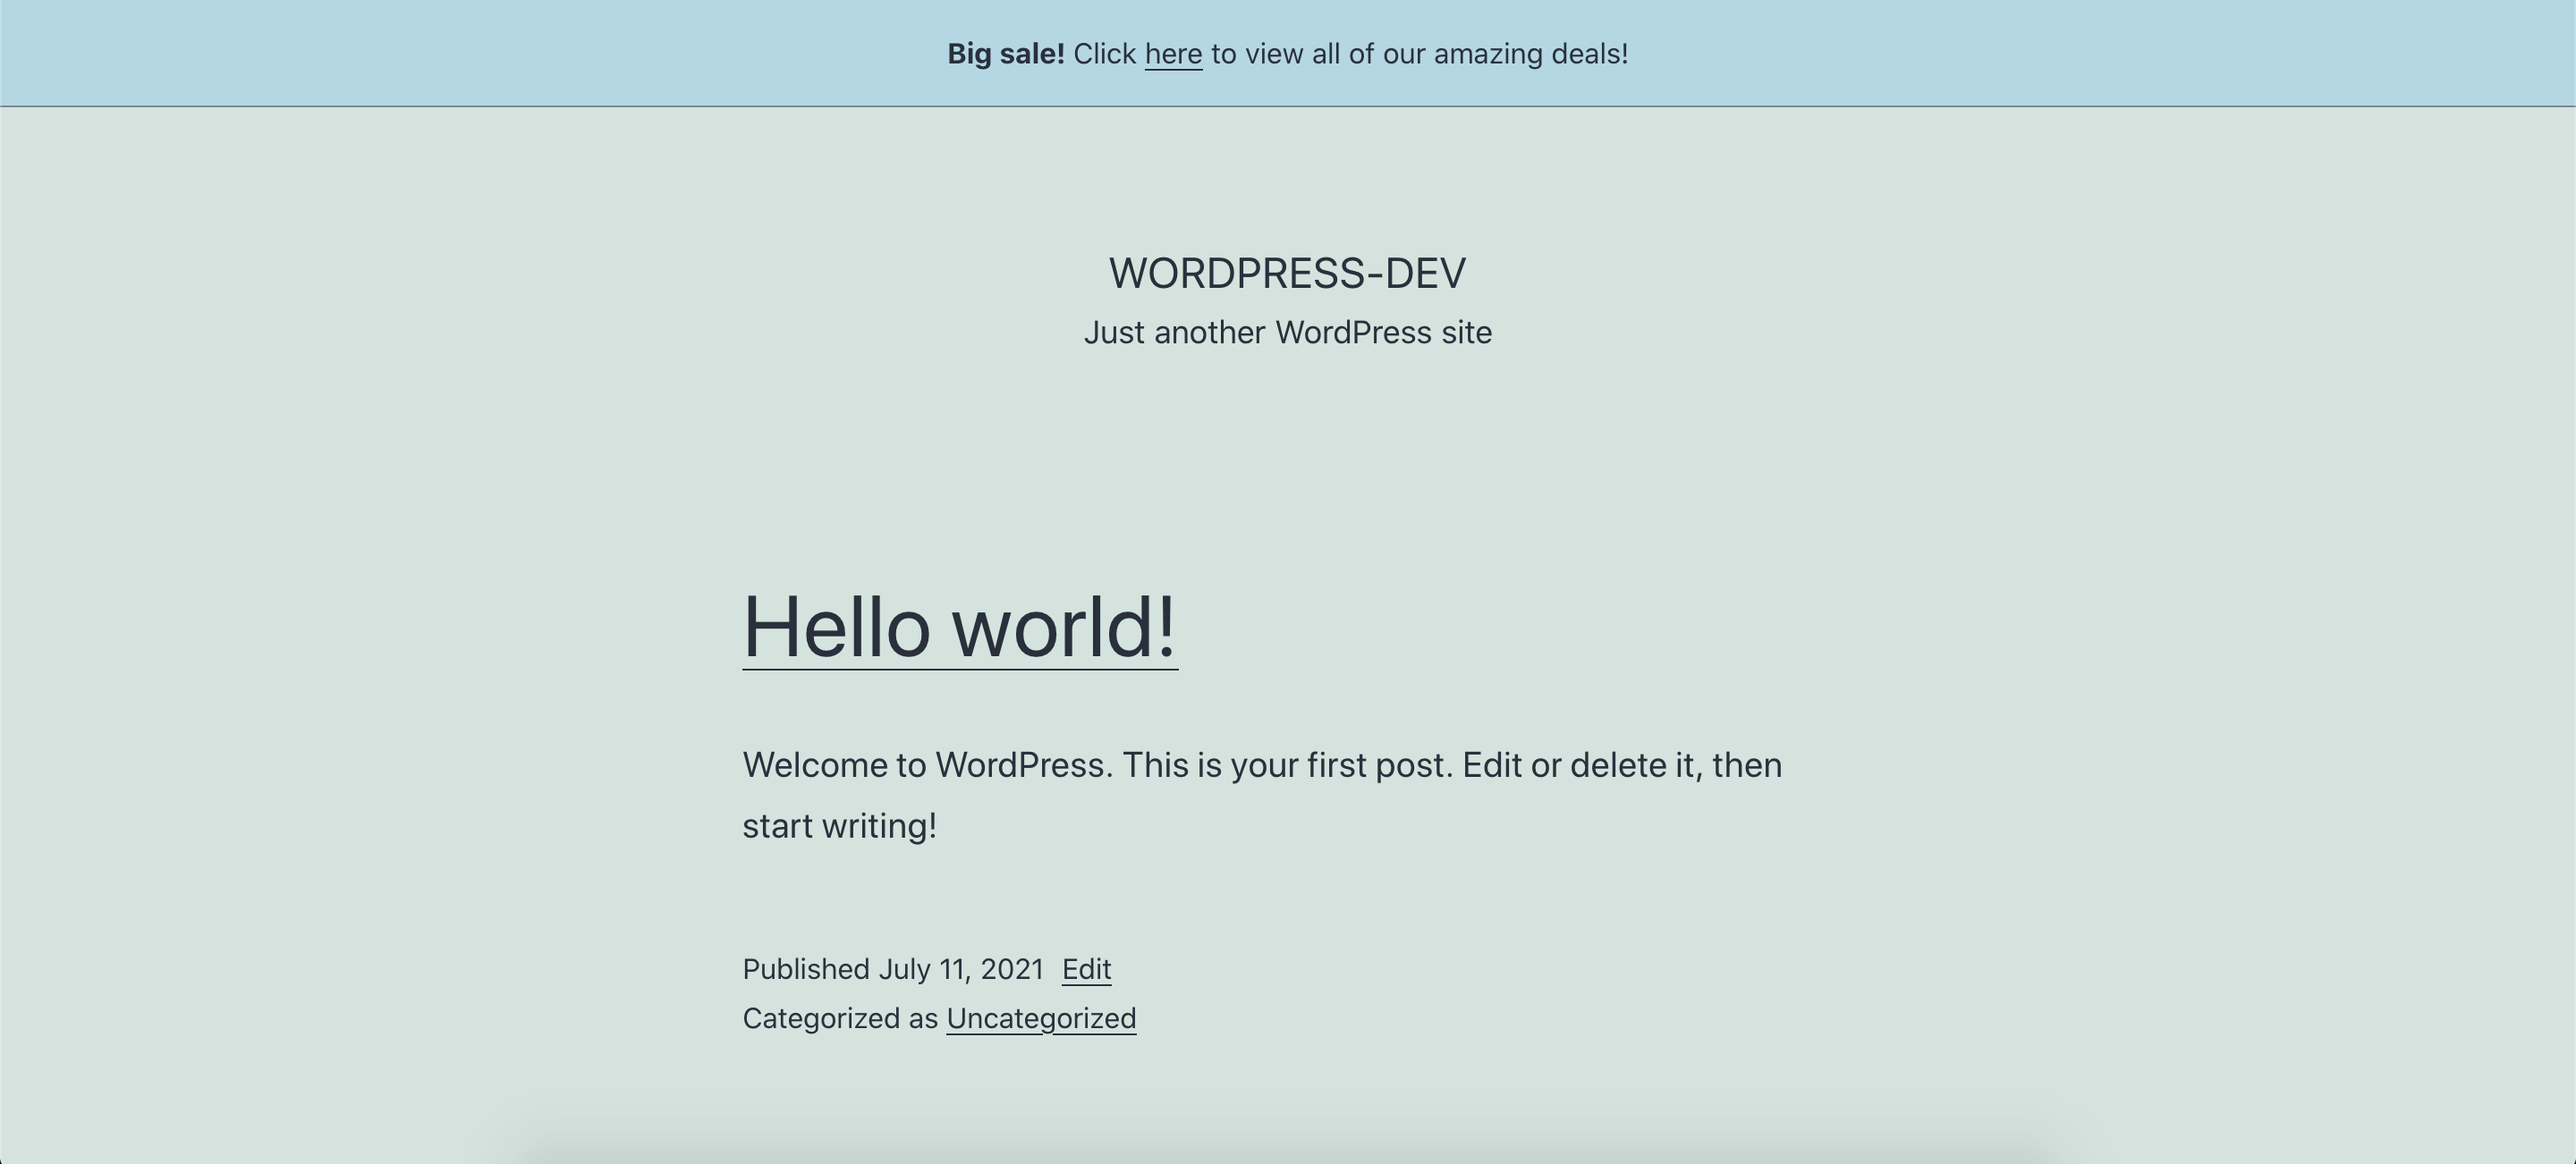
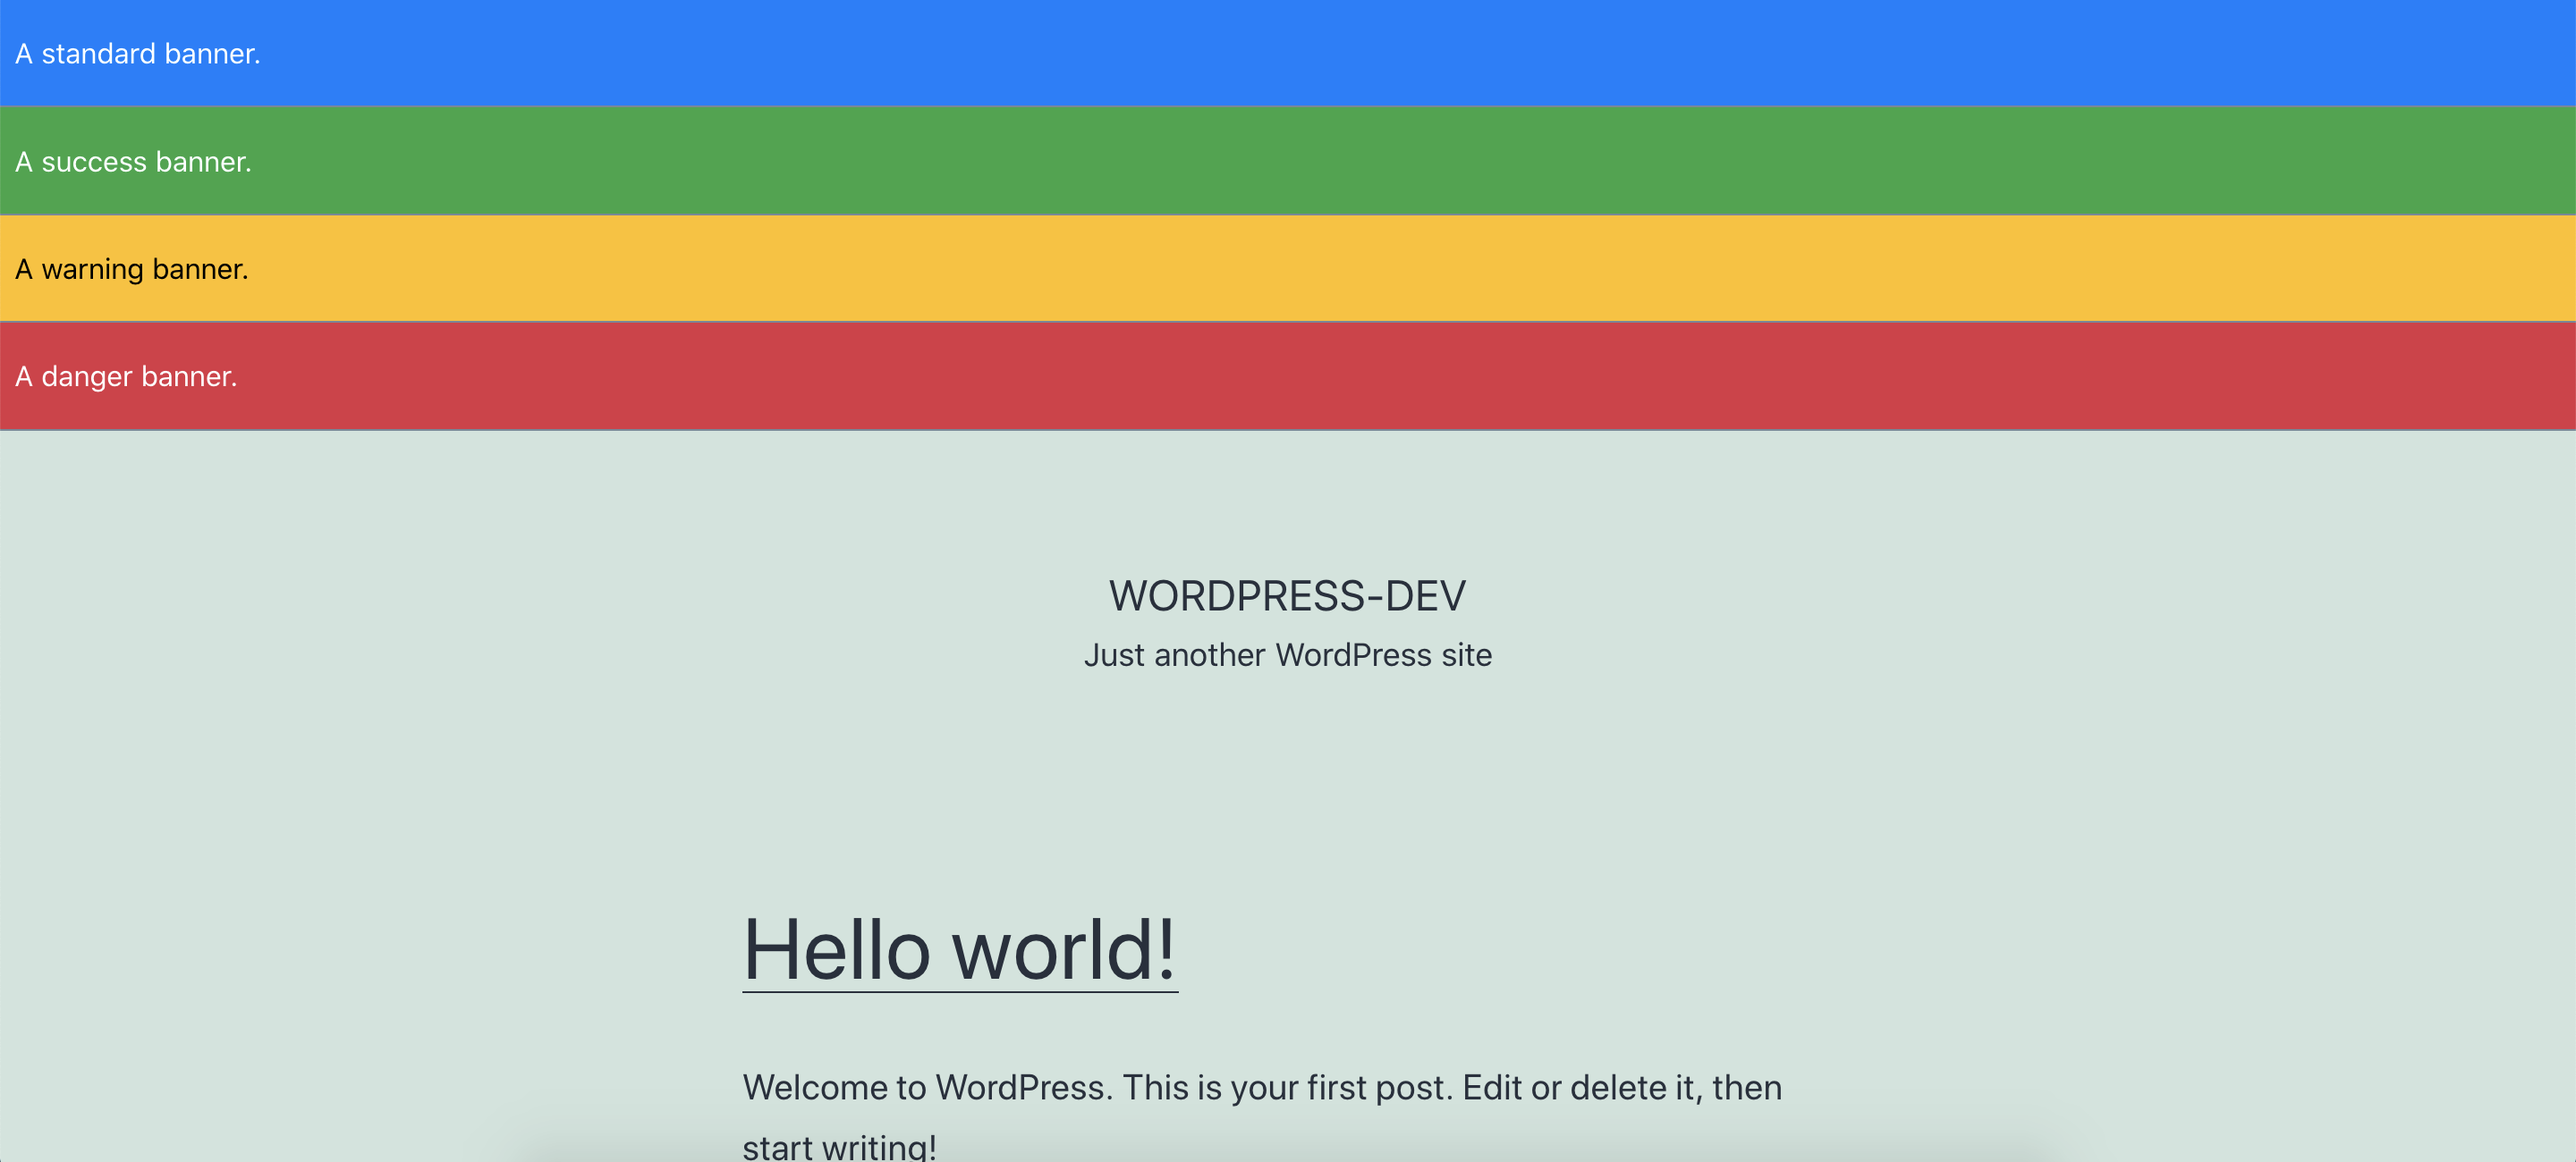
Updates README and thumbnail

diff --git a/README.md b/README.md
@@ -7,3 +7,9 @@ Easily add custom banners to the top of every page of your WordPress site
 ## Usage
 
 After installing the plugin, a new "Banners" section will appear in the admin menu. Simply add a new Banner using the options on this menu and it will automatically appear on your website.
+
+Optionally, select one of several preset banner types to correspond with the type of message you are displaying:
+* Standard
+* Success
+* Warnings
+* Danger
